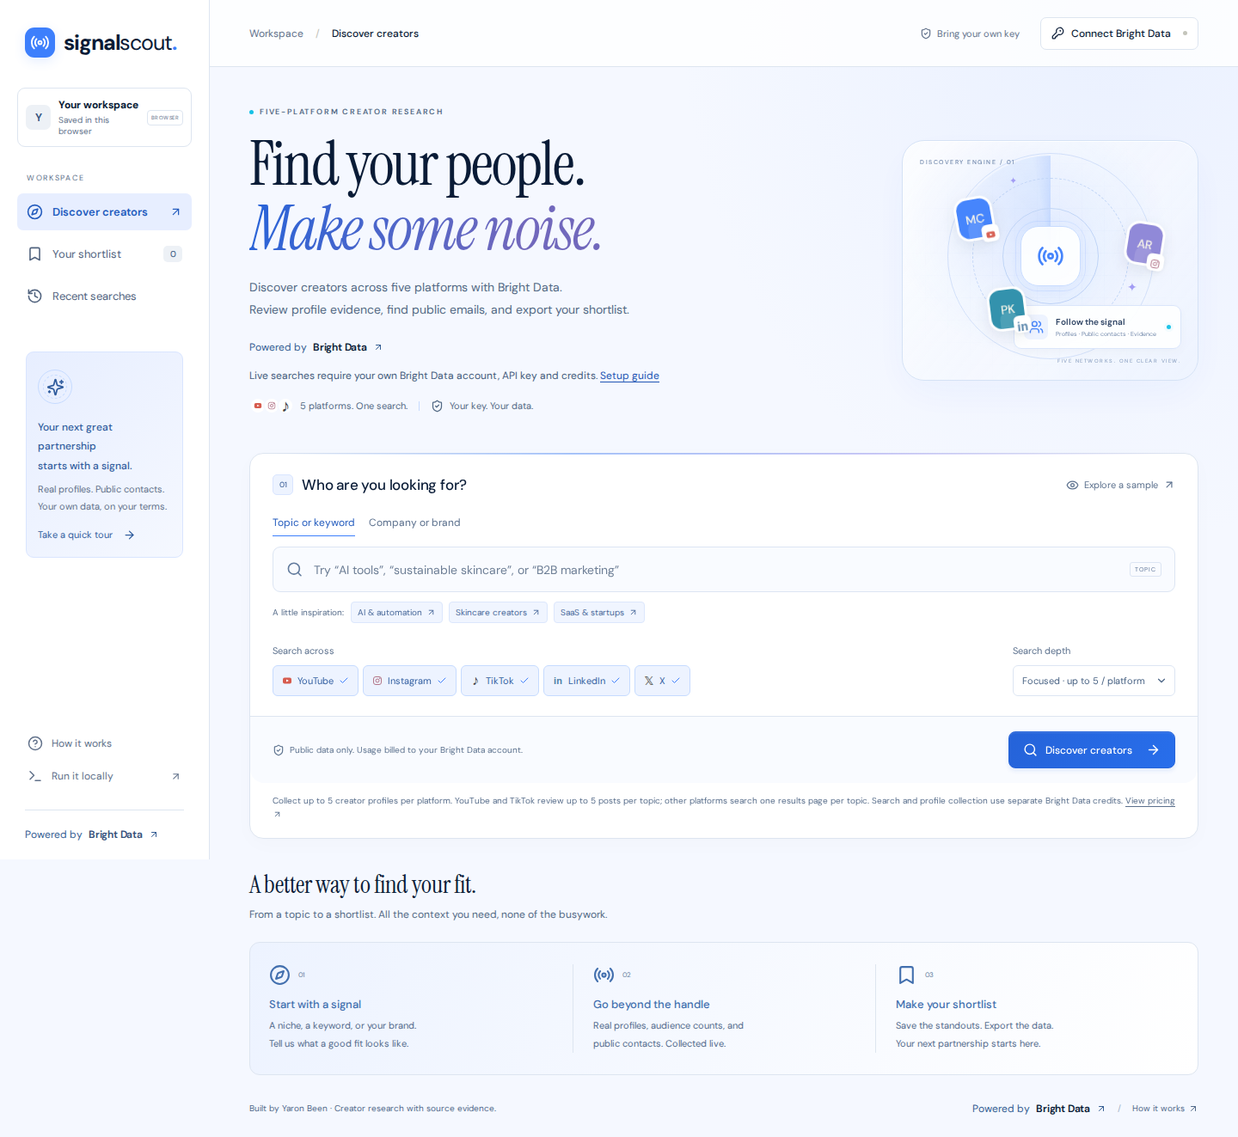
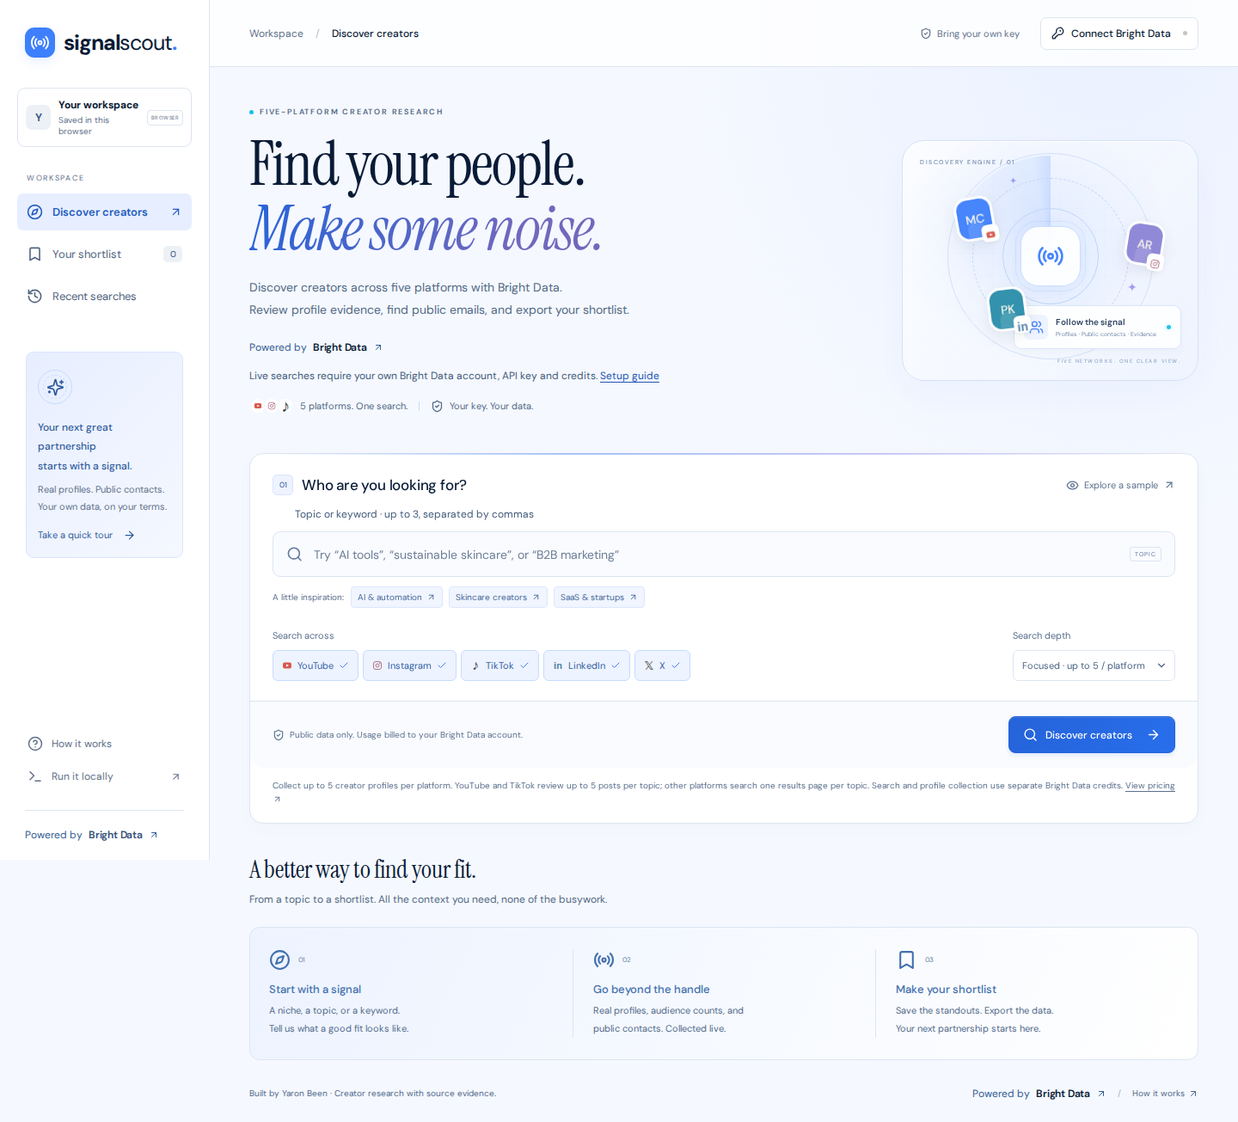
Simplify topic search and require deliberate multi-zone selection

diff --git a/src/App.tsx b/src/App.tsx
@@ -223,8 +223,6 @@ export default function App() {
   const [keyError, setKeyError] = useState("");
   const [help, setHelp] = useState(false);
   const [brief, setBrief] = useState("");
-  const [terms, setTerms] = useState("");
-  const [companyMode, setCompanyMode] = useState(false);
   const [selected, setSelected] = useState<Platform[]>([...platforms]);
   const [depth, setDepth] = useState(5);
   const [formError, setFormError] = useState("");
@@ -343,7 +341,7 @@ export default function App() {
       setSearchAvailable(response.searchAvailable);
       const zones = response.searchZones || [];
       setSearchZones(zones);
-      setSearchZone(current => zones.includes(current) ? current : zones[0] || "");
+      setSearchZone(current => zones.includes(current) ? current : zones.length === 1 ? zones[0] : "");
       setKeyDraft("");
       setKeyModal(false);
       setToast(response.searchAvailable ? "Key connected. Choose your search zone before searching. Service access and credits are checked when collection runs." : "Key connected. Set up a search zone for Instagram, LinkedIn & X. YouTube/TikTok require Web Scraper API access and credits.");
@@ -354,12 +352,12 @@ export default function App() {
     }
   }
   function config(): SearchConfig | null {
-    const keywords = (companyMode ? terms : terms || brief)
+    const keywords = brief
       .split(/[,\n]/)
       .map((s) => s.trim())
       .filter(Boolean);
     if (!brief.trim()) {
-      setFormError("Add a topic or company to start your search.");
+      setFormError("Add a topic or keyword to start your search.");
       return null;
     }
     if (
@@ -374,6 +372,10 @@ export default function App() {
     }
     if (!selected.length) {
       setFormError("Choose at least one platform.");
+      return null;
+    }
+    if (connected && searchZones.length > 1 && !searchZone && selected.some(p => ['instagram', 'linkedin', 'x'].includes(p))) {
+      setFormError('Choose your Bright Data search zone for Instagram, LinkedIn & X before searching.');
       return null;
     }
     if (search.jobs.length) {
@@ -420,8 +422,6 @@ export default function App() {
     setSample(true);
     setLastBrief("AI tools & automation");
     setBrief("AI tools, automation");
-    setTerms("");
-    setCompanyMode(false);
     search.showSample(sampleCreators);
     go("discover");
     setTimeout(
@@ -494,6 +494,7 @@ export default function App() {
     }
   }
   const source = view === "shortlist" ? shortlist : search.creators;
+  const audienceUnit = filterPlatform === 'youtube' ? 'subscribers' : filterPlatform === 'all' ? 'followers / subscribers' : 'followers';
   const visible = source
     .filter(
       (c) =>
@@ -700,71 +701,22 @@ export default function App() {
                     <ArrowUpRight size={14} />
                   </button>
                 </div>
-                <div
-                  className="input-mode"
-                  role="group"
-                  aria-label="Search type"
-                >
-                  <button
-                    type="button"
-                    className={!companyMode ? "selected" : ""}
-                    onClick={() => {
-                      setCompanyMode(false);
-                      setTerms("");
-                    }}
-                  >
-                    Topic or keyword
-                  </button>
-                  <button
-                    type="button"
-                    className={companyMode ? "selected" : ""}
-                    onClick={() => {
-                      setCompanyMode(true);
-                      setTerms("");
-                    }}
-                  >
-                    Company or brand
-                  </button>
-                </div>
+                <label className="topic-field-label" htmlFor="topic">Topic or keyword · up to 3, separated by commas</label>
                 <label className="search-input-wrap">
                   <Search size={21} />
                   <input
-                    aria-label={
-                      companyMode ? "Company or brand" : "Topic or keyword"
-                    }
+                    id="topic"
+                    aria-label="Topic or keyword"
                     value={brief}
                     onChange={(e) => setBrief(e.target.value)}
                     maxLength={240}
-                    placeholder={
-                      companyMode
-                        ? "Your company or brand name"
-                        : "Try “AI tools”, “sustainable skincare”, or “B2B marketing”"
-                    }
+                    placeholder="Try “AI tools”, “sustainable skincare”, or “B2B marketing”"
                     disabled={search.running}
                   />
                   <span className="input-hint">
-                    {companyMode ? "BRAND" : "TOPIC"}
+                    TOPIC
                   </span>
                 </label>
-                {companyMode && (
-                  <div className="brand-terms">
-                    <label htmlFor="terms">
-                        Which topics or audiences should we search for?
-                    </label>
-                    <input
-                      id="terms"
-                      value={terms}
-                      onChange={(e) => setTerms(e.target.value)}
-                      placeholder="e.g. AI automation, SaaS founders"
-                      maxLength={300}
-                      disabled={search.running}
-                    />
-                    <small>
-                        Your company name labels this research. These terms guide discovery; separate up to 3 short topics with commas.
-                    </small>
-                  </div>
-                )}
-                {!companyMode && (
                   <div className="suggestions">
                     <span>A little inspiration:</span>
                     {[
@@ -784,14 +736,12 @@ export default function App() {
                               "SaaS founders, startup tools",
                             ][i],
                           );
-                          setTerms("");
                         }}
                       >
                         {s} <ArrowUpRight size={11} />
                       </button>
                     ))}
                   </div>
-                )}
                 <div className="search-options">
                   <div className="platform-options">
                     <label>Search across</label>
@@ -845,9 +795,10 @@ export default function App() {
                   <div className="search-zone-option">
                     <label htmlFor="search-zone">Bright Data search zone · Instagram, LinkedIn & X</label>
                     <select id="search-zone" value={searchZone} disabled={search.running} onChange={e => setSearchZone(e.target.value)}>
+                      <option value="" disabled>Choose your search zone</option>
                       {searchZones.map(zone => <option key={zone} value={zone}>{zone}</option>)}
                     </select>
-                    <small>If search fails, check this zone’s settings. Selecting another zone does not repeat any paid request.</small>
+                    <small>{searchZones.length > 1 ? 'You have multiple zones. Choose the one configured for working Google searches; the app does not test them with paid requests. ' : ''}If search fails, check this zone’s settings. Selecting another zone does not repeat any paid request.</small>
                   </div>
                 )}
                 <div className="search-footer">
@@ -927,6 +878,10 @@ export default function App() {
                     onClick={() => {
                       if (!connected) setKeyModal(true);
                       else {
+                        if (!searchZone && searchZones.length > 1 && search.jobs.some(j => j.stage === 'queued' && ['instagram', 'linkedin', 'x'].includes(j.platform))) {
+                          setFormError('Choose your Bright Data search zone before resuming discovery.');
+                          return;
+                        }
                         setSample(false);
                         search.start(search.jobs[0].config, key, true, searchZone);
                       }
@@ -1021,11 +976,9 @@ export default function App() {
                     <button
                       key={i}
                       onClick={() => {
-                        setBrief(h.brief);
-                        setTerms(h.keywords.join(", "));
+                        setBrief(h.keywords.join(", "));
                         setSelected(h.platforms);
                         setDepth(h.depth);
-                        setCompanyMode(true);
                         go("discover");
                       }}
                     >
@@ -1167,6 +1120,7 @@ export default function App() {
                       >
                         <button
                           className={filterPlatform === "all" ? "active" : ""}
+                          aria-pressed={filterPlatform === 'all'}
                           onClick={() => setFilterPlatform("all")}
                         >
                           All creators <span>{source.length}</span>
@@ -1175,10 +1129,12 @@ export default function App() {
                           <button
                             key={p}
                             className={filterPlatform === p ? "active" : ""}
+                            aria-pressed={filterPlatform === p}
                             onClick={() => setFilterPlatform(p)}
                           >
                             <PlatformMark platform={p} />
                             {platformNames[p]}
+                            <span>{source.filter(c => c.platform === p).length}</span>
                           </button>
                         ))}
                       </div>
@@ -1211,9 +1167,9 @@ export default function App() {
                             onChange={(e) => setMinimum(Number(e.target.value))}
                           >
                             <option value={0}>Any audience size</option>
-                            <option value={1000}>1K+ followers</option>
-                            <option value={10000}>10K+ followers</option>
-                            <option value={100000}>100K+ followers</option>
+                            <option value={1000}>1K+ {audienceUnit}</option>
+                            <option value={10000}>10K+ {audienceUnit}</option>
+                            <option value={100000}>100K+ {audienceUnit}</option>
                           </select>
                         </label>
                         <label>
@@ -1224,7 +1180,7 @@ export default function App() {
                             onChange={(e) => setSort(e.target.value)}
                           >
                             <option value="relevance">Topic signals</option>
-                            <option value="audience">Audience size</option>
+                            <option value="audience">{filterPlatform === 'all' ? 'Audience size' : `${audienceUnit[0].toUpperCase()}${audienceUnit.slice(1)}`}</option>
                             <option value="email">Email available</option>
                           </select>
                         </label>
@@ -1411,7 +1367,7 @@ export default function App() {
                         </div>
                         <h3>Start with a signal</h3>
                         <p>
-                          A niche, a keyword, or your brand.
+                          A niche, a topic, or a keyword.
                           <br />
                           Tell us what a good fit looks like.
                         </p>
@@ -1577,7 +1533,7 @@ export default function App() {
               [
                 "02",
                 "Describe your ideal creator",
-                "Use up to three specific topics. For a company search, add the niche or audience you want to reach. Start with focused depth.",
+                "Enter up to three specific topics or keywords separated by commas. Start with focused depth.",
               ],
               [
                 "03",
@@ -1609,6 +1565,17 @@ export default function App() {
             </p>
           </div>
           <ProviderSetup />
+          <div className="connection-info">
+            <strong>What each platform searches</strong>
+            <ul className="discovery-methods">
+              <li><strong>YouTube:</strong> keyword video search via Bright Data → deduplicate channels → collect channel profiles. Evidence comes from video titles/descriptions and profile text.</li>
+              <li><strong>TikTok:</strong> keyword post search via Bright Data → deduplicate creators → collect profiles. Evidence comes from returned captions/descriptions and profile bios.</li>
+              <li><strong>Instagram:</strong> Google search for <code>site:instagram.com [topic] creator</code> via your SERP zone → keep profile URLs → collect profiles.</li>
+              <li><strong>LinkedIn:</strong> Google search for <code>site:linkedin.com/in [topic] creator</code> → keep personal profile URLs → collect profiles.</li>
+              <li><strong>X:</strong> Google search for <code>site:twitter.com [topic] creator</code> → normalize profiles to x.com → collect profiles, with up to 3 recent posts requested.</li>
+            </ul>
+            <p>There is no dedicated hashtag crawler. Hashtags may appear in returned text, but the app searches keywords and Google-indexed evidence. Topic badges mean a word from your term appeared in the name, bio, or evidence; they are not exact-phrase matches or audience-quality scores.</p>
+          </div>
           <div className="connection-info">
             <strong>Using the live website</strong>
             <p>No installation is needed. Connect your own key, choose your search zone, and search. No owner key is provided. After a refresh, reconnect your key and use Resume search to check existing collections. Do not repeat an unresolved paid search until you check your Bright Data usage.</p>

diff --git a/test/e2e/app.spec.ts b/test/e2e/app.spec.ts
@@ -1,5 +1,22 @@
 import { test, expect } from '@playwright/test';
 
+test('topic-only search restores legacy research keywords and labels platform audience filters', async ({page}) => {
+  await page.addInitScript(() => localStorage.setItem('signal-scout:v1:history',JSON.stringify([{brief:'Legacy company label',keywords:['ai ugc','marketing'],platforms:['youtube','x'],depth:5}])));
+  await page.goto('/');
+  await expect(page.getByRole('button',{name:'Company or brand',exact:true})).toHaveCount(0);
+  await page.getByRole('button',{name:/Explore a sample/}).click();
+  const tabs=page.getByRole('group',{name:'Filter by platform'});
+  await tabs.getByRole('button',{name:/YouTube/}).click();
+  await expect(page.locator('.creator-card')).toHaveCount(2);
+  await expect(page.getByLabel('Minimum audience').getByRole('option',{name:'10K+ subscribers',exact:true})).toHaveCount(1);
+  await tabs.getByRole('button',{name:/X/}).click();
+  await expect(page.getByLabel('Minimum audience').getByRole('option',{name:'10K+ followers',exact:true})).toHaveCount(1);
+  if(test.info().project.name==='mobile') await page.getByRole('button',{name:'Open navigation'}).click();
+  await page.getByRole('button',{name:'Recent searches',exact:true}).click();
+  await page.getByRole('button',{name:/Legacy company label/}).click();
+  await expect(page.getByLabel('Topic or keyword',{exact:true})).toHaveValue('ai ugc, marketing');
+});
+
 test('sample, profile, saved shortlist, export and browser persistence', async ({ page }) => {
   await page.goto('/');
   await expect(page.getByRole('heading', { name: /Find your people/ })).toBeVisible();

diff --git a/src/brightdata.css b/src/brightdata.css
@@ -179,6 +179,7 @@ button:focus-visible, a:focus-visible, input:focus-visible, select:focus-visible
 
 /* Motion direction: a precise discovery instrument, with restrained depth. */
 .search-zone-option { display: grid; gap: 8px; margin: 0 24px 20px; }
+.topic-field-label { display: block; margin: 14px 26px 12px; color: #435b7b; font-size: 12px; }
 .search-zone-option label { color: #304869; font-size: 11px; font-weight: 500; }
 .search-zone-option select { width: 100%; min-height: 40px; border: 1px solid #d3e1f5; border-radius: 8px; padding: 8px 12px; background: #fff; color: #091b36; font: inherit; font-size: 12px; }
 .search-zone-option small { color: #526a8b; font-size: 11px; line-height: 1.6; }
@@ -194,6 +195,9 @@ button:focus-visible, a:focus-visible, input:focus-visible, select:focus-visible
 .setup-disclosure { margin: 20px 0; border: 1px solid #d3e1f5; border-radius: 10px; padding: 14px; background: #f3f7ff; }
 .setup-disclosure summary { font-size: 13px; font-weight: 500; line-height: 1.7; color: #2054b3; cursor: pointer; }
 .setup-disclosure .provider-setup { border: 0; margin: 14px 0 0; padding: 0; }
+.discovery-methods { padding-left: 18px; font-size: 12px; line-height: 1.8; color: #435b7b; }
+.discovery-methods li + li { margin-top: 8px; }
+.discovery-methods code { overflow-wrap: anywhere; font-size: 11px; }
 .connection-info p, .connection-info small, .key-help, .operator-note { font-size: 12px; line-height: 1.7; }
 .main-shell { background: radial-gradient(ellipse at 88% 0%, #dfe9ff80, transparent 34%), #f5f8ff; }
 .hero h1 { color: #091b36; }

diff --git a/test/worker.test.ts b/test/worker.test.ts
@@ -80,6 +80,16 @@ test('origin error identifies the selected zone without exposing raw provider co
   assert.ok(!body.includes(token));
   assert.ok(!body.includes('SECRET_TOKEN'));
 });
+test('multiple active search zones require an explicit choice before paid dispatch', async () => {
+  let searches = 0;
+  const response = await handleRequest(request('discover', {platform:'instagram',keywords:['ai ugc'],depth:5}), env, mock(url => {
+    if (url.endsWith('get_all_zones')) return reply([{name:'first',type:'serp',status:'active'}, {name:'second',type:'serp',status:'active'}]);
+    searches++; return reply({organic:[]});
+  }));
+  assert.equal(response.status,409);
+  assert.match((await response.json()).error,/Multiple active search zones/);
+  assert.equal(searches,0);
+});
 test('status rejects arbitrary paths and result treats eventual-consistency response as pending', async () => {
   const invalid = await handleRequest(request('status?id=../../secrets'), env, mock(() => { throw new Error('must not fetch'); }));
   assert.equal(invalid.status, 400);

diff --git a/test/e2e/brand.spec.ts b/test/e2e/brand.spec.ts
@@ -58,7 +58,11 @@ test('visitor can select an account search zone without submitting or replaying 
   await page.getByLabel('Bright Data API key').fill('fixture-key-only');
   await page.getByRole('dialog').getByRole('button',{name:'Connect Bright Data'}).click();
   const zone = page.getByLabel('Bright Data search zone · Instagram, LinkedIn & X');
-  await expect(zone).toHaveValue('first');
+  await expect(zone).toHaveValue('');
+  await page.getByLabel('Topic or keyword',{exact:true}).fill('ai ugc');
+  await page.getByRole('main').getByRole('button',{name:'Discover creators',exact:true}).click();
+  await expect(page.getByRole('alert')).toContainText('Choose your Bright Data search zone');
+  expect(searches).toBe(0);
   await zone.selectOption('working');
   expect(searches).toBe(0);
   await page.getByLabel('Topic or keyword',{exact:true}).fill('ai ugc');

diff --git a/worker/index.ts b/worker/index.ts
@@ -378,6 +378,8 @@ export async function handleRequest(
         : [];
       if (b.searchZone !== undefined && (typeof b.searchZone !== 'string' || b.searchZone.length > 128))
         throw new ApiError('Choose an active Bright Data search zone.');
+      if (!b.searchZone && available.length > 1)
+        throw new ApiError('Multiple active search zones found. Select your search zone in the app before starting Instagram, LinkedIn, or X discovery.', 409);
       const zone = b.searchZone
         ? available.find(z => z.name === b.searchZone)?.name
         : available[0]?.name;

diff --git a/README.md b/README.md
@@ -12,7 +12,7 @@ Discover creators across **YouTube, Instagram, TikTok, LinkedIn, and X**, collec
 
 1. Open the app and click **Connect Bright Data**.
 2. Paste your own Bright Data API key.
-3. Enter a topic, or enter your company and the topics you want to reach.
+3. Enter 1–3 topics or keywords separated by commas.
 4. Choose platforms and click **Discover creators**.
 5. Inspect the evidence, save the good fits, and export a CSV.
 
@@ -23,7 +23,7 @@ You can explore the interface without a key using **Explore a sample**. Sample c
 ### What your Bright Data account needs
 
 - An API key with **Web Scraper API** access and available credits.
-- An active, working **SERP API zone** for Instagram, LinkedIn, and X discovery. Create one at [Bright Data → Create an API](https://brightdata.com/cp/web_access/new). The app lists your active search zones; select the one you want to use. Active status does not guarantee successful search-engine access.
+- An active, working **SERP API zone** for Instagram, LinkedIn, and X discovery. Create one at [Bright Data → Create an API](https://brightdata.com/cp/web_access/new). The app lists your active search zones. With multiple zones, you must choose one explicitly; it never silently selects the first. Active status does not guarantee successful search-engine access.
 - Optional: an active **Web Unlocker API** to scan a creator's linked website for public email. This is a separate, user-triggered request.
 
 [Find your API key](https://brightdata.com/cp/setting/users) · [SERP setup guide](https://docs.brightdata.com/scraping-automation/serp-api/quickstart)
@@ -95,6 +95,14 @@ The React frontend talks to a small same-origin Cloudflare Worker. The Worker va
 - **Optional contact scan:** explicitly fetch a linked public website through Bright Data Web Unlocker → extract visible public email.
 
 Long-running scrapers return snapshot IDs. The browser polls short status requests rather than holding open a server connection. Successful platforms keep their results even if another platform fails.
+
+### Discovery and platform filters
+
+YouTube and TikTok use keyword content searches, then collect the channels/creators behind those results. Instagram, LinkedIn, and X use Google-indexed profile URLs and search snippets through the visitor's SERP zone, then enrich those profiles. X discovery uses Google's legacy `twitter.com` index and normalizes identities to `x.com`. There is no dedicated hashtag discovery mode or exhaustive scan of a creator's content.
+
+Topic signals are words found in names, bios, and discovery evidence; a multiword term can match on one word. Google snippets can reflect indexed profile or content text and are not proof of an exact bio match.
+
+Results share one shortlist/export workflow, with platform tabs and counts. Audience filters say subscribers for YouTube, followers for individual other platforms, and followers/subscribers for the combined list. They are reported counts, not equivalent unique reach across networks.
 
 ### Key and storage behavior
 

diff --git a/docs/VERIFICATION.md b/docs/VERIFICATION.md
@@ -2,8 +2,8 @@
 
 ## Automated checks
 
-- `npm run check`: **31 unit/integration checks passed**, TypeScript passed, production build passed.
-- `npm run test:e2e`: **30 browser tests passed**, covering desktop (1440px), mobile (390px), explicit agent/human setup guidance, visitor-key clearing, account search-zone selection, breakpoint widths 360/700/900/1440, and reduced motion.
+- `npm run check`: **32 unit/integration checks passed**, TypeScript passed, production build passed.
+- `npm run test:e2e`: **32 browser tests passed**, covering desktop (1440px), mobile (390px), topic-only search/legacy history, platform audience labels, explicit agent/human setup guidance, visitor-key clearing, required multi-zone selection, breakpoint widths 360/700/900/1440, and reduced motion.
 - Separate read-only reviewer audited orchestration, provenance, recovery, and sample isolation. Reported blockers were fixed and regression-tested; final targeted verdict: **SHIP**.
 - A subsequent four-perspective review covered branding, nontechnical onboarding, copywriting, and engineering; changes are documented in [REVIEW.md](REVIEW.md).
 

diff --git a/docs/solutions/integration-issues/active-serp-zone-timeouts-20261013.md b/docs/solutions/integration-issues/active-serp-zone-timeouts-20261013.md
@@ -19,6 +19,7 @@ A bounded developer-account diagnostic using the Instagram `ai ugc` creator quer
 
 - `/api/connect` lists active SERP zone names.
 - The search form allows the visitor to choose a zone; start/resume passes it to discovery.
+- When an account has multiple active zones, connecting leaves the choice empty. The UI and relay both require an explicit selection before discovery; a single active zone can be selected automatically. No zone is hard-coded for other visitors.
 - The relay validates the chosen zone against that visitor's active account zones before dispatch. A missing/disabled/foreign zone never silently falls back.
 - Origin errors identify the selected zone and origin HTTP status without exposing raw provider bodies.
 - Changing a selection never dispatches a search. Failed paid requests retain uncertainty and require explicit retry authorization.
